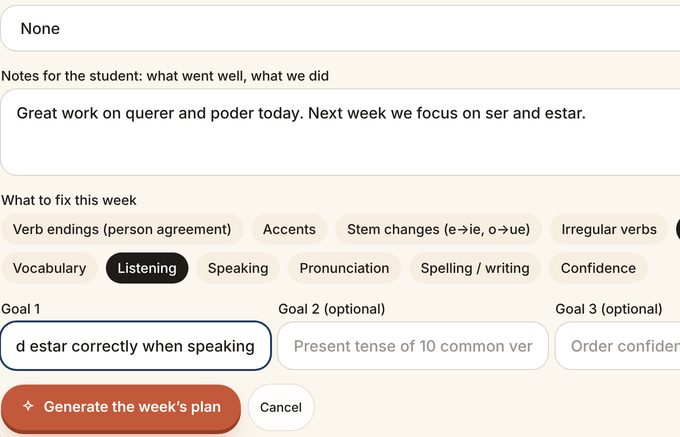
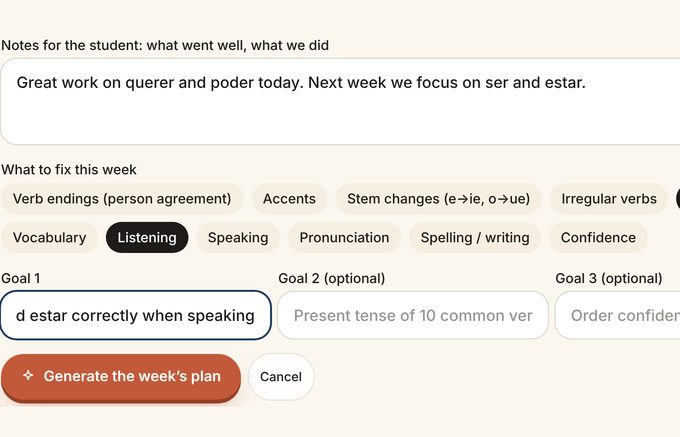
Outreach email with a penalty to take and a personalised page to open
marketing/email/pitch-email.html: a table-based HTML email in the app's
branding, 600px wide and stacking on phones, with hosted images, a bulletproof
button and a "take a penalty" module: three verb forms as links that open the
prospect's pitch page with the shot, so the page can show ¡GOL! or ¡Parada!.
pitch-email.txt is the plain-text version; README.md explains merge fields,
sending options, pacing, follow-ups and UK PECR. scripts/merge-email.mjs
fills both templates from a CSV, one file per prospect.

Claude-Session: https://claude.ai/code/session_01YEP75Ax4tEsXPVRXbNgg3P

diff --git a/marketing/email/pitch-email.html b/marketing/email/pitch-email.html
@@ -1,0 +1,163 @@
+<!DOCTYPE html PUBLIC "-//W3C//DTD XHTML 1.0 Transitional//EN" "http://www.w3.org/TR/xhtml1/DTD/xhtml1-transitional.dtd">
+<html xmlns="http://www.w3.org/1999/xhtml" xmlns:v="urn:schemas-microsoft-com:vml" xmlns:o="urn:schemas-microsoft-com:office:office" lang="en-GB">
+<head>
+<meta http-equiv="Content-Type" content="text/html; charset=UTF-8">
+<meta name="viewport" content="width=device-width, initial-scale=1">
+<meta name="x-apple-disable-message-reformatting">
+<meta name="color-scheme" content="light">
+<meta name="supported-color-schemes" content="light">
+<title>What your students do between lessons</title>
+<!--[if mso]>
+<xml><o:OfficeDocumentSettings><o:PixelsPerInch>96</o:PixelsPerInch></o:OfficeDocumentSettings></xml>
+<style>table, td, th { font-family: Georgia, 'Times New Roman', serif !important; } .body-text, .body-text * { font-family: Arial, Helvetica, sans-serif !important; }</style>
+<![endif]-->
+<!--[if !mso]><!-->
+<link href="https://fonts.googleapis.com/css2?family=Fraunces:wght@600&display=swap" rel="stylesheet">
+<!--<![endif]-->
+<style>
+  :root { color-scheme: light; supported-color-schemes: light; }
+  body { margin: 0; padding: 0; -webkit-text-size-adjust: 100%; -ms-text-size-adjust: 100%; background: #F3E9DA; }
+  table { border-collapse: collapse; mso-table-lspace: 0; mso-table-rspace: 0; }
+  img { border: 0; line-height: 100%; outline: none; text-decoration: none; -ms-interpolation-mode: bicubic; }
+  a { color: #9E3F26; }
+  .display { font-family: 'Fraunces', Georgia, 'Times New Roman', serif; }
+  .btn:hover { background: #963F26 !important; }
+  .post:hover { background: #E3A33B !important; }
+  @media only screen and (max-width: 620px) {
+    .wrap { width: 100% !important; }
+    .pad { padding-left: 20px !important; padding-right: 20px !important; }
+    .h1 { font-size: 28px !important; line-height: 34px !important; }
+    .stack { display: block !important; width: 100% !important; }
+    .stack-pad { padding: 0 0 12px 0 !important; }
+    .post-text { font-size: 17px !important; }
+    .goal-pad { padding: 44px 8px 8px 8px !important; }
+  }
+</style>
+</head>
+<body style="margin:0;padding:0;background:#F3E9DA;">
+<!-- Preheader: shows next to the subject line in the inbox and nowhere else -->
+<div style="display:none;font-size:1px;color:#F3E9DA;line-height:1px;max-height:0;max-width:0;opacity:0;overflow:hidden;mso-hide:all;">A week’s homework from your last lesson, seven games, and one penalty for you to take.&#847;&zwnj;&nbsp;&#847;&zwnj;&nbsp;&#847;&zwnj;&nbsp;&#847;&zwnj;&nbsp;&#847;&zwnj;&nbsp;&#847;&zwnj;&nbsp;&#847;&zwnj;&nbsp;&#847;&zwnj;&nbsp;&#847;&zwnj;&nbsp;&#847;&zwnj;&nbsp;&#847;&zwnj;&nbsp;&#847;&zwnj;&nbsp;&#847;&zwnj;&nbsp;&#847;&zwnj;&nbsp;&#847;&zwnj;&nbsp;&#847;&zwnj;&nbsp;&#847;&zwnj;&nbsp;&#847;&zwnj;&nbsp;&#847;&zwnj;&nbsp;&#847;&zwnj;&nbsp;</div>
+
+<table role="presentation" width="100%" cellpadding="0" cellspacing="0" border="0" style="background:#F3E9DA;">
+<tr><td align="center" style="padding:24px 12px;">
+<!--[if mso]><table role="presentation" width="600" cellpadding="0" cellspacing="0" border="0"><tr><td><![endif]-->
+<table role="presentation" class="wrap" width="600" cellpadding="0" cellspacing="0" border="0" style="width:600px;max-width:600px;background:#FBF6EE;border-radius:20px;">
+
+  <!-- Header: wordmark and Dina -->
+  <tr><td class="pad" style="padding:28px 40px 0 40px;">
+    <table role="presentation" width="100%" cellpadding="0" cellspacing="0" border="0">
+      <tr>
+        <td valign="bottom" style="padding:0;">
+          <div class="display" style="font-family:'Fraunces',Georgia,'Times New Roman',serif;font-size:14px;line-height:16px;font-style:italic;color:#5E7149;">Learning with</div>
+          <div class="display" style="font-family:'Fraunces',Georgia,'Times New Roman',serif;font-size:32px;line-height:34px;font-weight:600;color:#C2593A;letter-spacing:-0.5px;">Dina<span style="color:#C9A24B;">.</span></div>
+        </td>
+        <td width="72" valign="bottom" align="right" style="padding:0;">
+          <img src="https://scliffe93.github.io/Espanolwithdina/pitch/dina.png" width="72" height="76" alt="Dina, the illustrated tutor, with her dog Toby" style="display:block;width:72px;height:auto;border:0;">
+        </td>
+      </tr>
+    </table>
+  </td></tr>
+
+  <!-- Opening -->
+  <tr><td class="pad body-text" style="padding:28px 40px 0 40px;font-family:Arial,Helvetica,sans-serif;font-size:17px;line-height:26px;color:#1E1B18;">
+    <p style="margin:0 0 16px 0;">Hi {{first_name}},</p>
+    <p style="margin:0 0 16px 0;">Picture one of your students on the bus home, two days after their lesson. They open an app with your name on it. The home screen says <i>“This week with {{school}}”</i>: the homework from that lesson, as a short plan. Ser o Estar first, because that is what tripped them up; then a penalty shoot-out for their city’s club, in that city’s Spanish.</p>
+    <p style="margin:0 0 16px 0;">You wrote none of it. After the lesson you spent two minutes ticking what went well and what to work on, and the app drafted the week. The moment they finish, you know how it went.</p>
+    <p style="margin:0;">I built this for one tutor, Dina. Her students use it now. I have made a page showing {{school}}’s version, with your name already on the card.</p>
+  </td></tr>
+
+  <!-- Hero: the loop in three screens (animated where the client allows; the first frame elsewhere) -->
+  <tr><td class="pad" style="padding:24px 40px 0 40px;">
+    <a href="{{pitch_url}}" style="text-decoration:none;">
+      <img src="https://scliffe93.github.io/Espanolwithdina/pitch/hero.gif" width="520" alt="Two minutes of notes after the lesson, the week drafted, and the plan on the student’s phone" style="display:block;width:100%;max-width:520px;height:auto;border:0;border-radius:14px;">
+    </a>
+    <table role="presentation" width="100%" cellpadding="0" cellspacing="0" border="0" style="margin-top:10px;">
+      <tr class="body-text" style="font-family:Arial,Helvetica,sans-serif;font-size:13px;line-height:18px;color:#6B5F51;">
+        <td width="33%" valign="top" style="padding:0 6px 0 0;"><b style="color:#9E3F26;">1</b>&nbsp; Two minutes of notes</td>
+        <td width="33%" valign="top" style="padding:0 6px;"><b style="color:#9E3F26;">2</b>&nbsp; The week, drafted</td>
+        <td width="33%" valign="top" style="padding:0 0 0 6px;"><b style="color:#9E3F26;">3</b>&nbsp; On their phone</td>
+      </tr>
+    </table>
+  </td></tr>
+
+  <!-- The penalty -->
+  <tr><td class="pad" style="padding:28px 40px 0 40px;">
+    <p class="body-text" style="margin:0 0 12px 0;font-family:Arial,Helvetica,sans-serif;font-size:17px;line-height:26px;color:#1E1B18;"><b>Your turn.</b> One of the seven games, in miniature: fill the gap and take a penalty for {{city}}’s club.</p>
+    <table role="presentation" width="100%" cellpadding="0" cellspacing="0" border="0" style="background:#2E8B3D;border-radius:18px;">
+      <tr><td align="center" style="padding:22px 16px 18px 16px;">
+        <div class="body-text" style="font-family:Arial,Helvetica,sans-serif;font-size:12px;line-height:16px;letter-spacing:2px;text-transform:uppercase;color:#D7EBD9;">El penalti · tú · hablar <span style="letter-spacing:0;text-transform:none;color:#BFE0C3;">(to speak)</span></div>
+        <div class="display" style="font-family:'Fraunces',Georgia,'Times New Roman',serif;font-size:34px;line-height:40px;font-weight:600;color:#FFFFFF;padding:6px 0 14px 0;">tú <span style="color:#F2C66D;">___</span></div>
+        <!-- The goal: a white frame open at the bottom, three forms to shoot at -->
+        <table role="presentation" cellpadding="0" cellspacing="0" border="0" width="100%" style="max-width:420px;border:4px solid #FFFFFF;border-bottom:none;border-radius:14px 14px 0 0;">
+          <tr><td class="goal-pad" style="padding:52px 10px 10px 10px;">
+            <table role="presentation" width="100%" cellpadding="0" cellspacing="0" border="0">
+              <tr>
+                <td width="33%" align="center" style="padding:0 4px;"><a class="post post-text" href="{{pitch_url}}&amp;shot=hablo" style="display:block;background:#FFFFFF;color:#1E1B18;font-family:Georgia,'Times New Roman',serif;font-size:20px;line-height:24px;font-weight:bold;text-decoration:none;padding:16px 4px;border-radius:12px;">hablo</a></td>
+                <td width="33%" align="center" style="padding:0 4px;"><a class="post post-text" href="{{pitch_url}}&amp;shot=hablas" style="display:block;background:#FFFFFF;color:#1E1B18;font-family:Georgia,'Times New Roman',serif;font-size:20px;line-height:24px;font-weight:bold;text-decoration:none;padding:16px 4px;border-radius:12px;">hablas</a></td>
+                <td width="33%" align="center" style="padding:0 4px;"><a class="post post-text" href="{{pitch_url}}&amp;shot=habla" style="display:block;background:#FFFFFF;color:#1E1B18;font-family:Georgia,'Times New Roman',serif;font-size:20px;line-height:24px;font-weight:bold;text-decoration:none;padding:16px 4px;border-radius:12px;">habla</a></td>
+              </tr>
+            </table>
+          </td></tr>
+        </table>
+        <div class="body-text" style="font-family:Arial,Helvetica,sans-serif;font-size:13px;line-height:18px;color:#D7EBD9;padding-top:12px;">Left post, centre or right post. Tap one and the page tells you if it went in.</div>
+      </td></tr>
+    </table>
+  </td></tr>
+
+  <!-- Two short modules -->
+  <tr><td class="pad" style="padding:28px 40px 0 40px;">
+    <table role="presentation" width="100%" cellpadding="0" cellspacing="0" border="0">
+      <tr>
+        <td class="stack stack-pad" width="50%" valign="top" style="padding:0 10px 0 0;">
+          <table role="presentation" width="100%" cellpadding="0" cellspacing="0" border="0" style="background:#F3E9DA;border-radius:14px;">
+            <tr><td class="body-text" style="padding:18px 18px 20px 18px;font-family:Arial,Helvetica,sans-serif;font-size:15px;line-height:22px;color:#4A4238;">
+              <div class="display" style="font-family:'Fraunces',Georgia,'Times New Roman',serif;font-size:19px;line-height:24px;font-weight:600;color:#1E1B18;padding-bottom:6px;">Your side of it</div>
+              One Today view: lessons, homework due, who has gone quiet, who needs an invoice. Taught lessons become a numbered PDF invoice in one click. Lesson packages count down and warn you when someone is nearly out. A progress report per student, one click, for parents.
+            </td></tr>
+          </table>
+        </td>
+        <td class="stack" width="50%" valign="top" style="padding:0 0 0 10px;">
+          <table role="presentation" width="100%" cellpadding="0" cellspacing="0" border="0" style="background:#F3E9DA;border-radius:14px;">
+            <tr><td class="body-text" style="padding:18px 18px 20px 18px;font-family:Arial,Helvetica,sans-serif;font-size:15px;line-height:22px;color:#4A4238;">
+              <div class="display" style="font-family:'Fraunces',Georgia,'Times New Roman',serif;font-size:19px;line-height:24px;font-weight:600;color:#1E1B18;padding-bottom:6px;">What it is, honestly</div>
+              Your own copy of Dina’s app, in your name and colours, with your own illustrated tutor character. Nothing to install on a computer; students add it to their phone and it works offline. Set-up takes [about two weeks].
+            </td></tr>
+          </table>
+        </td>
+      </tr>
+    </table>
+  </td></tr>
+
+  <!-- The ask -->
+  <tr><td class="pad" style="padding:28px 40px 0 40px;" align="center">
+    <!--[if mso]>
+    <v:roundrect xmlns:v="urn:schemas-microsoft-com:vml" xmlns:w="urn:schemas-microsoft-com:office:word" href="{{pitch_url}}" style="height:52px;v-text-anchor:middle;width:320px;" arcsize="50%" strokecolor="#C2593A" fillcolor="#C2593A">
+      <w:anchorlock/>
+      <center style="color:#ffffff;font-family:Arial,Helvetica,sans-serif;font-size:17px;font-weight:bold;">See {{school}}’s own app</center>
+    </v:roundrect>
+    <![endif]-->
+    <!--[if !mso]><!-->
+    <a class="btn body-text" href="{{pitch_url}}" style="display:inline-block;background:#C2593A;color:#FFFFFF;font-family:Arial,Helvetica,sans-serif;font-size:17px;line-height:20px;font-weight:bold;text-decoration:none;padding:16px 30px;border-radius:999px;mso-hide:all;">See {{school}}’s own app &rarr;</a>
+    <!--<![endif]-->
+    <p class="body-text" style="margin:14px 0 0 0;font-family:Arial,Helvetica,sans-serif;font-size:14px;line-height:21px;color:#6B5F51;">Your name on the brand card, a sample week, what you would see, the prices, and a thirty-minute walkthrough to book if you like it.</p>
+  </td></tr>
+
+  <!-- Sign-off -->
+  <tr><td class="pad body-text" style="padding:28px 40px 0 40px;font-family:Arial,Helvetica,sans-serif;font-size:17px;line-height:26px;color:#1E1B18;">
+    <p style="margin:0 0 16px 0;">If it is not for you, you have lost forty seconds and gained a penalty shoot-out.</p>
+    <p style="margin:0;">{{sender_name}}<br><span style="font-size:14px;color:#6B5F51;">Learning with Dina · [phone]</span></p>
+    <p style="margin:16px 0 0 0;font-size:15px;line-height:22px;color:#4A4238;"><i>P.S. Every screen on that page is a screenshot of the live app, not a mock-up. The penalty is the real game.</i></p>
+  </td></tr>
+
+  <!-- Footer: who, why, how to say no -->
+  <tr><td class="pad body-text" style="padding:28px 40px 28px 40px;font-family:Arial,Helvetica,sans-serif;font-size:12px;line-height:18px;color:#7A6E60;border-top:1px solid #E8DCC8;">
+    You are getting this because {{school}} lists this address for business enquiries and I thought the app might suit your students. I am {{sender_name}}, the person behind Learning with Dina, writing to tutors one at a time. If you would rather not hear from me again, reply “no thanks” and I will not write again.<br>
+    [Your trading name], [postal address]. <a href="https://scliffe93.github.io/Espanolwithdina/#/privacy" style="color:#7A6E60;">Privacy</a>
+  </td></tr>
+
+</table>
+<!--[if mso]></td></tr></table><![endif]-->
+</td></tr>
+</table>
+</body>
+</html>

diff --git a/marketing/email/README.md b/marketing/email/README.md
@@ -1,0 +1,89 @@
+# The outreach email
+
+A cold email to independent Spanish tutors and small language schools, selling them their own copy of the app. It is built to stand out in two ways that survive every email client:
+
+1. **A penalty to take inside the email.** A drawn goal with three verb forms. Tapping one opens the prospect's personal page, which shows ¡GOL! or ¡Parada! and then lets them play the real game for their city's club.
+2. **A page made for them.** The button opens `#/pitch?to=…&school=…&city=…` on the live site: their name on the app's brand card, the game, a sample week in their name, what the tutor sees, prices, and a book-a-walkthrough button.
+
+Email clients strip scripts and most of them block forms, so nothing cleverer than links is reliable. Gmail's AMP format would allow real interactivity, but only in Gmail and only after Google approves the sending domain, which is not worth it for one-to-one outreach. The design here degrades to plain links everywhere, including with images switched off.
+
+## Files
+
+| File | What it is |
+|---|---|
+| `pitch-email.html` | The email. Table-based, inline styles, 600 px wide, stacks on phones. Images are hosted on the live site under `/pitch/`. |
+| `pitch-email.txt` | The plain-text version. Send it as the text alternative, or on its own when a prospect's address looks like it belongs to a person who reads mail in plain text. |
+| `../../scripts/merge-email.mjs` | Fills both templates for every row of a CSV and writes one `.html` and one `.txt` per prospect. |
+| `../../src/data/pitch.ts` | The page's sender details, set-up time and prices. Fill `senderName`, `senderEmail` or `bookingUrl` before sending anything. |
+
+## Before the first send
+
+1. **Fill the placeholders** in both templates: `[about two weeks]`, `[phone]`, `[Your trading name]`, `[postal address]`. Search for `[` to find them.
+2. **Fill `src/data/pitch.ts`** (`senderName`, and `bookingUrl` or `senderEmail`), build and push, so the page's "Book a 30-minute walkthrough" button works. Until then the page asks the reader to reply to your email instead.
+3. **Keep the site address.** Images and links point at `https://scliffe93.github.io/Espanolwithdina/`. If the repository is renamed or moved to a custom domain, replace that address in both templates (or pass `--base` to the merge script).
+4. **Send one to yourself** at a Gmail address and at an Outlook address, on a phone and on a computer, and take the penalty from each.
+
+## Merge fields
+
+| Field | Meaning | Example |
+|---|---|---|
+| `{{first_name}}` | The person you are writing to | Laura |
+| `{{school}}` | The business name, or the tutor's own first name for a sole tutor | Academia Sol |
+| `{{city}}` | How the city reads in the sentence "a penalty for {{city}}'s club"; use `your city` when unknown | Valencia |
+| `{{pitch_url}}` | The personal page link; the merge script builds it | `…/#/pitch?to=Laura&school=Academia%20Sol&city=valencia` |
+| `{{sender_name}}` | You | |
+
+The page accepts seven cities: `madrid`, `valencia`, `barcelona`, `sevilla`, `cdmx`, `buenosaires`, `medellin`. For anyone else leave the city blank; the page falls back to Madrid and the email says "your city".
+
+## Sending
+
+**Option A, one at a time (recommended for the first fifty).** Put the prospects in a CSV with the columns `email, first_name, school, city, city_id`, then:
+
+```
+node scripts/merge-email.mjs prospects.csv out/ --sender "Your name"
+```
+
+Open each `out/*.html` in Chrome, select all, copy, and paste into a new Gmail or Outlook message: the tables and inline styles survive the paste. Set the subject, send. Thunderbird can also send a file as-is (Insert, HTML). The matching `.txt` is there if you prefer to send plain text to someone.
+
+**Option B, a sending tool.** Brevo, MailerLite and Mailchimp all take pasted HTML and a contact import with custom fields. Rename the merge fields to the tool's own syntax first, for example Brevo's `{{ contact.FIRSTNAME }}`, `{{ contact.SCHOOL }}`, `{{ contact.CITY }}`, `{{ contact.PITCH_URL }}`. Generate the `PITCH_URL` column in your sheet with:
+
+```
+="https://scliffe93.github.io/Espanolwithdina/#/pitch?to="&ENCODEURL(B2)&"&school="&ENCODEURL(C2)&"&city="&E2
+```
+
+(columns: A email, B first name, C school, D city as it reads, E city id). Turn off the tool's click tracking: wrapped links break the `#/pitch` fragment in some clients, and the footer promises nothing is tracked.
+
+**Pace and deliverability.** Send from a mailbox on your own domain with SPF and DKIM set up (Google Workspace or Microsoft 365 do this for you), no more than twenty or thirty a day, no tracking pixels, a plain subject line, and always the plain-text part. Replies, even "no thanks", help your sender reputation; silence does not.
+
+## Subject lines
+
+Pick one per batch and keep it:
+
+- `What your students do between lessons`
+- `Two minutes of notes, a week of homework`
+- `A Spanish app with your name on it`
+
+Preheader (already in the HTML): *A week's homework from your last lesson, seven games, and one penalty for you to take.*
+
+## Follow-ups
+
+Two at most, both short, both as replies in the same thread.
+
+**Day 4.** "Did the penalty go in? The page is still there: {{pitch_url}}. If it is easier, tell me a day and a time and I will walk you through it with your students' names in it."
+
+**Day 10.** "I will leave it here. If homework between lessons ever becomes the problem you want to fix, the page keeps your name on it. Thanks for reading."
+
+## Staying on the right side of UK email law
+
+The footer is written for this. In short:
+
+- Under PECR, unsolicited marketing email to a **company** (limited company, LLP, public body) at a published business address is allowed as long as you say who you are and give a way to opt out. Most language schools are companies.
+- For **sole traders and partnerships**, which most individual tutors are, unsolicited marketing email needs their prior consent. Write to them only where they publish a business address and invite enquiries, keep it personal and one-to-one, and stop the moment they ask. If in doubt, make first contact another way (a reply to a public post, a call, a referral) and send the email once they have said yes.
+- Keep a list of everyone who says "no thanks" and never write to them again.
+- The privacy link in the footer points at the app's privacy page; the pitch page itself stores nothing and sends nothing.
+
+None of this is legal advice; the ICO's direct marketing guidance is the reference.
+
+## Changing the copy
+
+Edit `pitch-email.html` and `pitch-email.txt` together. The penalty's verb, forms and answer are also defined in `src/data/pitch.ts` (`EMAIL_SHOT`): if you change the form in the email, change it there too, or the page will grade the shot wrongly.
